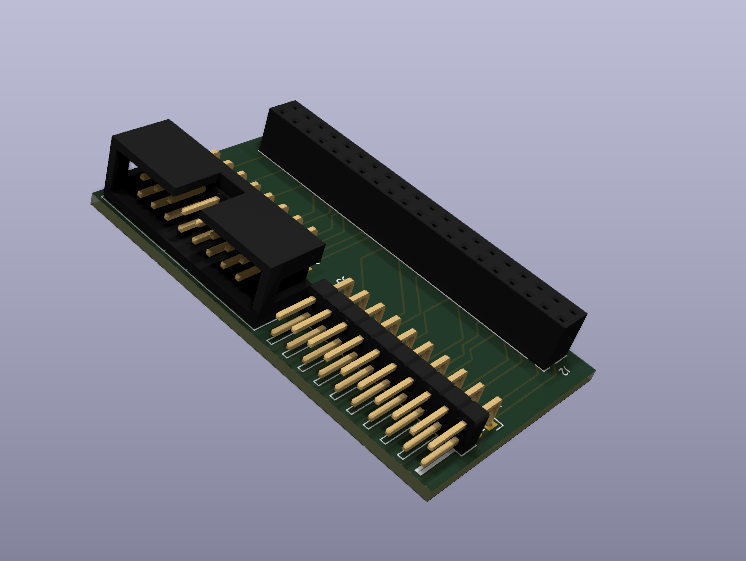
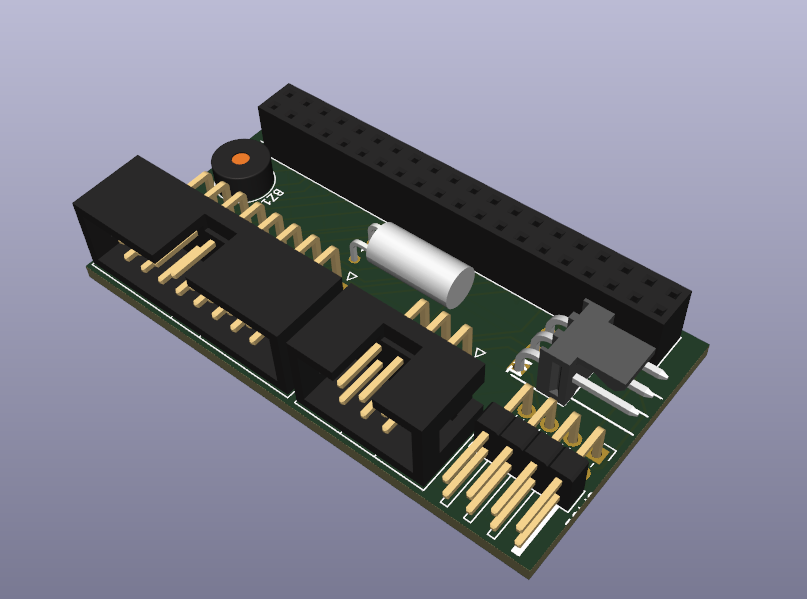
update readme to version 6

Changed region(s): [[0.0925, 0.1212, 0.8941, 0.9697]]

diff --git a/README.md b/README.md
@@ -1,19 +1,8 @@
 # Raspberry Pi 4 40 Pin GPIO to HUB75 Adapter Board
 
-This PCB converts pins 23-40 of the Pi GPIO to the HUB75 header. The remaining pins 1-22 are mapped to the 20-pin header on the board. It is intended this is used with the [RGB LED Matrix](https://github.com/hzeller/rpi-rgb-led-matrix/tree/master) library with a custom mapping [here](https://github.com/mura3277/rpi-rgb-led-matrix/blob/master/lib/hardware-mapping.c#L73), as this adapter accesses different GPIO bits from the regular. The mapping is as follows:
+This PCB maps the Pi GPIO to the HUB75 header. The remaining pins are mapped to a 8-pin header on the board. It is intended this is used with the [RGB LED Matrix](https://github.com/hzeller/rpi-rgb-led-matrix/tree/master) library.
 
-|Row 1        | Row 2       |
-|-------------|:-----------:|
-|GPIO 8 (G1)  |GPIO 11 (R1) |
-|GND          |GPIO 0 (B1)  |
-|GPIO 7 (G2)  |GPIO 5 (R2)  |
-|GPIO 1 (E)   |GPIO 6 (B2)  |
-|GPIO 12 (B)  |GPIO 13 (A)  |
-|GPIO 16 (D)  |GPIO 19 (C)  |
-|GPIO 20 (STB)|GPIO 26 (CLK)|
-|GND          |GPIO 21 (OE-)|
-
-Pin mapping for the remaining 20 pins from the Pi GPIO:
+Pin mapping for the remaining pins from the Pi GPIO:
 
 |Row 1     | Row 2    |
 |----------|:--------:|
@@ -31,6 +20,10 @@ Pin mapping for the remaining 20 pins from the Pi GPIO:
 ![](image.png)
 
 # Change Log
+
+## 6.0
+-  Went back to the regular HUB75 mapping as outlined by the rpi-rgb-led-matrix repo.
+-  Dropped some pins from the GPIO passthrough (extra GND, 3.3v).
 
 ## 5.0
 -  Added a right angled tilt sensor to the board, connected to a GPIO pin.
